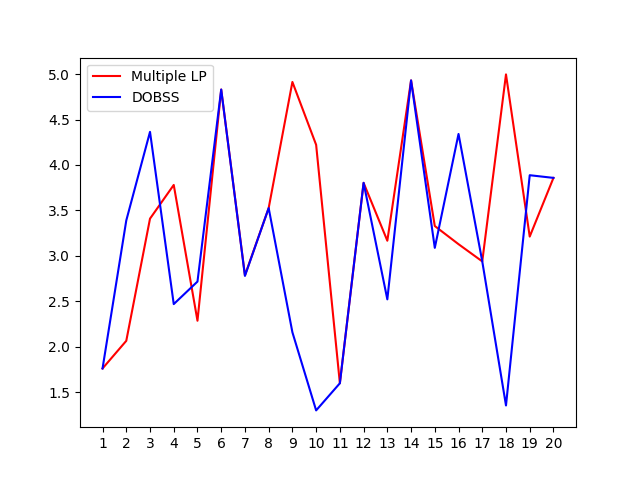
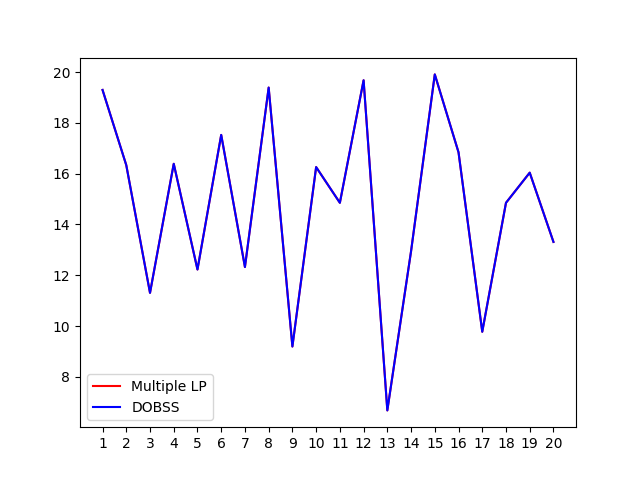
it works for one follower type

diff --git a/combined.py b/combined.py
@@ -5,8 +5,8 @@ import random
 # Multiple LP problems
 
 num_f_types = 1
-l_rew_ubound = 5
-f_rew_ubound = 5    
+l_rew_ubound = 20
+f_rew_ubound = 20    
 
 num_f_act = 2
 num_l_act = 2
@@ -14,11 +14,11 @@ num_l_act = 2
 # Payoff matrices
 # Leader
 R = np.array([ [ random.uniform(0, l_rew_ubound) for _ in range(num_f_act) ] for _ in range(num_l_act) ]) 
-# R = np.array([ [ 2, 4 ], [ 1, 3 ] ])
+# R = np.array([ [ 0.04, 0.16 ], [ 4.79, 1.9 ] ])
 
 # Follower
 C = np.array([ [ random.uniform(0, f_rew_ubound) for _ in range(num_f_act) ] for _ in range(num_l_act) ])
-# C = np.array([ [ 1, 0 ], [ 0, 1 ] ])
+# C = np.array([ [ 4.81, 0.25 ], [ 3.92, 4.57 ] ])
 
 # Probabilities
 Probabs = [ ]
@@ -29,12 +29,13 @@ for j in range(num_f_act):
     mul_lp = p.LpProblem("LP_" + str(j), p.LpMaximize)
     chanc = np.array([ p.LpVariable("Prob_" + str(j) + "_" + str(i), 0, 1, p.LpContinuous ) for i in range(num_l_act) ])
 
+    # objective 
+    mul_lp += p.lpSum( chanc[i]*R[i][j] for i in range(num_l_act) ), "objective_" + str(j)
+
     # constraints
     mul_lp += p.lpSum( chanc[i] for i in range(num_l_act) ) == 1, "Prob_" + str(j) + "_sum"
     for k in range(num_l_act):
-        mul_lp += p.lpSum( chanc[ct]*( C[j][ct] - C[k][ct] ) for ct in range(num_l_act) ) >= 0, "follower_" + str(j) + "_" + str(k)
-
-    mul_lp += p.lpSum( chanc[i]*R[i][j] for i in range(num_l_act) ), "objective_" + str(j)
+        mul_lp += p.lpSum( chanc[ct]*( C[ct][j] ) for ct in range(num_l_act) ) >= p.lpSum( chanc[ct]*( C[ct][k] ) for ct in range(num_l_act) ), "follower_" + str(j) + "_" + str(k)
 
     status = mul_lp.solve()
     if( p.LpStatus[status].lower() == 'optimal' ):
@@ -57,7 +58,7 @@ for i, rew in enumerate(L_Rew):
 with open('b.txt', 'a+') as f:
     if ( max(L_Rew) < 0 ):
         for j in range(num_f_act):
-            f.write( '-1 ' )
+            f.write('-1 ')
     else: 
         for j in range(len(Probabs[ind])):
             f.write(str(Probabs[ind][j]) + ' ')
@@ -69,6 +70,8 @@ with open('b.txt', 'a+') as f:
         # for j in range(len(Probabs[i])):
             # f.write(str(Probabs[i][j]) + ' ')
         # f.write('\n')
+# 
+    # f.write(str(L_Rew) + '\n\n')
 
 prob = p.LpProblem("DOBSS", p.LpMaximize)
 
@@ -112,10 +115,15 @@ with open('a.txt', 'a+') as f:
     f.write( str(max(L_Rew)) + '\n' )
     f.write( str(p.value(prob.objective)) + '\n')
 
-with open('b.txt', 'a+' ) as f:
+with open('b.txt', 'a+') as f:
     for i in range(I):
         f.write(str(sum(z[l][i][j].varValue for l in range(L) for j in range(J))) + ' ' )
-    f.write('\n')      
+    f.write('\n') 
 
-# for v in prob.variables():
-    # print(f"{v.name} = {v.varValue}")
+with open('vars.txt', 'a+') as f:
+    for i in range(I):
+        for j in range(J):
+            f.write(str( round(R[i][j], 2) ) + ',' + str( round(C[i][j], 2) ) + ' ' )
+        f.write('\n')
+    
+    f.write('\n')

diff --git a/run.py b/run.py
@@ -3,6 +3,7 @@ import subprocess
 
 open('a.txt', 'w').close()
 open('b.txt', 'w').close()
+open('vars.txt', 'w').close()
 
 for i in range(20):
     subprocess.run(["python", "combined.py" ])
